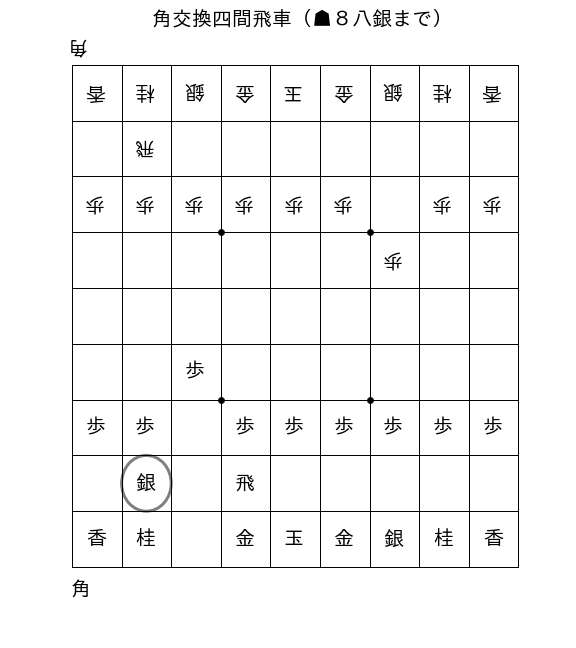
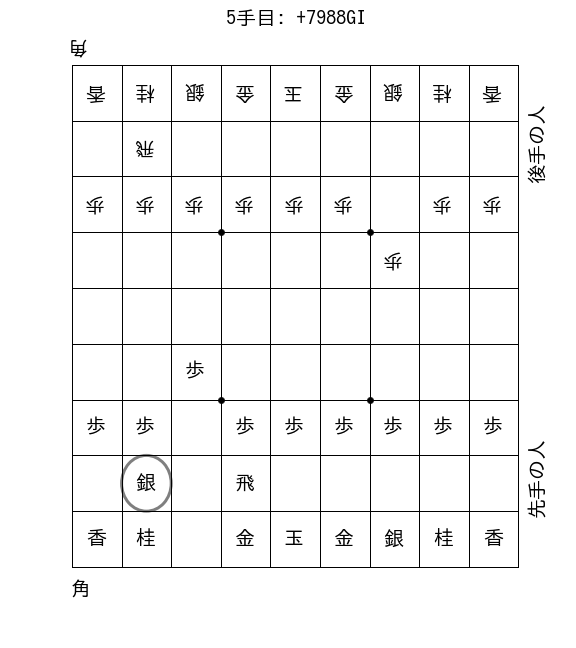
Fix plot_state_mpl

Changed region(s): [[0.25, 0.0, 0.75, 0.0617], [0.9062, 0.679, 0.9688, 0.8025], [0.9062, 0.1543, 0.9688, 0.2778]]

diff --git a/pyogi/board.py b/pyogi/board.py
@@ -75,7 +75,8 @@ class Board:
 
         return '\n'.join(s)
 
-    def plot_state_mpl(self, figsize=(8, 9), title = '', savepath=None):
+    def plot_state_mpl(self, figsize=(8, 9), sente_name='', gote_name='',
+                       title = '', savepath=None):
         '''Plot current state using matplotlib.
         '''
         fig, ax = plt.subplots(figsize=figsize)
@@ -132,7 +133,16 @@ class Board:
         plt.text(0,  9.2 * dy, self.get_mochigoma_str(1),
                  fontsize=fontsize, rotation=180)
 
+        # Plot names
+        plt.text(width_x+0.2, 2*dx, sente_name,
+                 fontsize=fontsize, rotation=90)
+        plt.text(width_x+0.2, 8*dx, gote_name,
+                 fontsize=fontsize, rotation=90)
+
         # Plot title
+        if not title:
+            title = '{0}手目: {1}'.format(self.tesu, self.last_move_txt)
+
         plt.title(title, y=1.07, fontsize=fontsize)
         plt.tick_params(labelleft='off', labelbottom='off')
 

diff --git a/doc/sample_code/demo_plot_state_mpl.py b/doc/sample_code/demo_plot_state_mpl.py
@@ -21,7 +21,6 @@ if __name__ == '__main__':
     board.move('-2288UM')
     board.move('+7988GI')
 
-
     print(board)
-    board.plot_state_mpl(title='角交換四間飛車 (☗８八銀まで)',
+    board.plot_state_mpl(sente_name='先手の人', gote_name='後手の人',
                          savepath='kk4.png')
